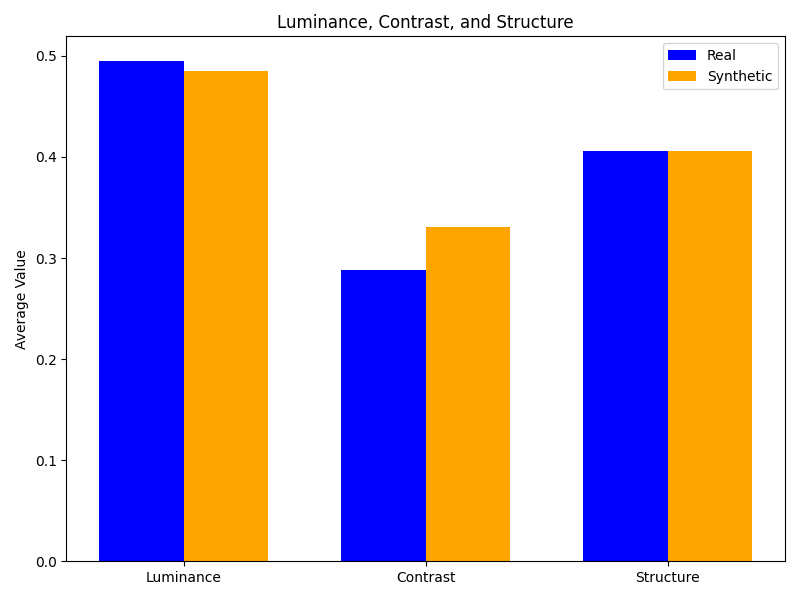
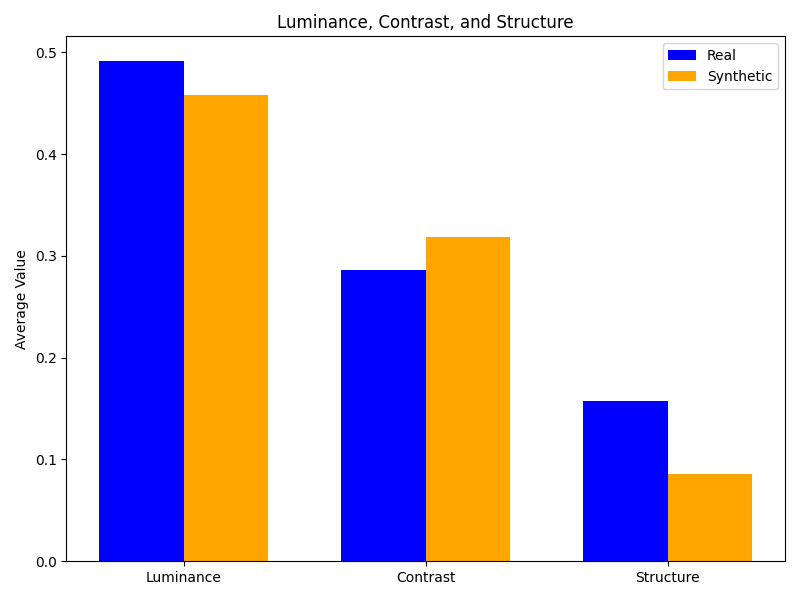
ssim calculation modified

diff --git a/SSIM_single_component_plot.py b/SSIM_single_component_plot.py
@@ -6,29 +6,31 @@ import csv
 from skimage.metrics import structural_similarity as ssim
 
 # Paths for real and synthetic images
-real_folder = "Images\City_sunny\RD"
-synthetic_folder = "Images\City_sunny\SD"
-output_folder = "SSIM_outputs_City_sunny"
+real_folder = "Images/Rain_scenario/RD"
+synthetic_folder = "Images/Rain_scenario/SD"
+output_folder = "SSIM_outputs_Rain"
 os.makedirs(output_folder, exist_ok=True)
 
 # Helper function to compute luminance, contrast, and structure (real vs synthetic comparison)
 def compute_metrics(image1, image2, output_folder, image_name):
-    # Calculate luminance (mean intensity) and contrast (standard deviation) for the real image
-    luminance = np.mean(image1)
-    contrast = np.std(image1)
+    # Calculate luminance (mean intensity) and contrast (standard deviation)
+    luminance1 = np.mean(image1)
+    contrast1 = np.std(image1)
     
-    # Compute SSIM between real and synthetic images to get structure
+    luminance2 = np.mean(image2)
+    contrast2 = np.std(image2)
+    
+    # Compute gradient magnitude (as a proxy for structure)
+    grad_x1 = cv2.Sobel(image1, cv2.CV_64F, 1, 0, ksize=3)
+    grad_y1 = cv2.Sobel(image1, cv2.CV_64F, 0, 1, ksize=3)
+    structure1 = np.mean(np.sqrt(grad_x1**2 + grad_y1**2))  # Gradient magnitude for real image
+    
+    grad_x2 = cv2.Sobel(image2, cv2.CV_64F, 1, 0, ksize=3)
+    grad_y2 = cv2.Sobel(image2, cv2.CV_64F, 0, 1, ksize=3)
+    structure2 = np.mean(np.sqrt(grad_x2**2 + grad_y2**2))  # Gradient magnitude for synthetic image
+
+    # Save SSIM map as an image
     ssim_score, ssim_map = ssim(image1, image2, full=True, data_range=1.0)
-    structure = np.mean(ssim_map)  # Structure derived from SSIM map
-    
-    # Check for invalid structure values (NaN or Inf)
-    if np.isnan(structure) or np.isinf(structure):
-        print("Warning: structure value is NaN or Inf.")
-        structure = 0
-    
-    print(f"SSIM Structure for {image_name}: {structure}")
-    
-    # Save SSIM map as image
     ssim_map_path = os.path.join(output_folder, f"SSIM_map_{image_name}.png")
     plt.imshow(ssim_map, cmap='gray')
     plt.colorbar()
@@ -36,7 +38,9 @@ def compute_metrics(image1, image2, output_folder, image_name):
     plt.savefig(ssim_map_path)
     plt.close()  # Close the plot to avoid memory overflow during large loops
     
-    return luminance, contrast, structure
+    print(f"Metrics for {image_name} -> Luminance1: {luminance1}, Contrast1: {contrast1}, Structure1: {structure1}")
+    print(f"Metrics for {image_name} -> Luminance2: {luminance2}, Contrast2: {contrast2}, Structure2: {structure2}")
+    return (luminance1, contrast1, structure1), (luminance2, contrast2, structure2)
 
 # Get common files
 real_files = {os.path.splitext(f)[0]: f for f in os.listdir(real_folder)}
@@ -53,6 +57,7 @@ synthetic_contrast_values = []
 synthetic_structure_values = []
 
 # Process images and calculate metrics
+# Process images and calculate metrics
 for name in common_files:
     real_img = cv2.imread(os.path.join(real_folder, real_files[name]), cv2.IMREAD_GRAYSCALE)
     synthetic_img = cv2.imread(os.path.join(synthetic_folder, synthetic_files[name]), cv2.IMREAD_GRAYSCALE)
@@ -65,8 +70,7 @@ for name in common_files:
     synthetic_img_norm = synthetic_img.astype(np.float64) / 255.0
 
     # Calculate metrics for real vs. synthetic images
-    real_luminance, real_contrast, real_structure = compute_metrics(real_img_norm, synthetic_img_norm, output_folder, name)
-    synthetic_luminance, synthetic_contrast, synthetic_structure = compute_metrics(synthetic_img_norm, real_img_norm, output_folder, name)
+    (real_luminance, real_contrast, real_structure), (synthetic_luminance, synthetic_contrast, synthetic_structure) = compute_metrics(real_img_norm, synthetic_img_norm, output_folder, name)
     
     # Append values to respective lists
     real_luminance_values.append(real_luminance)
